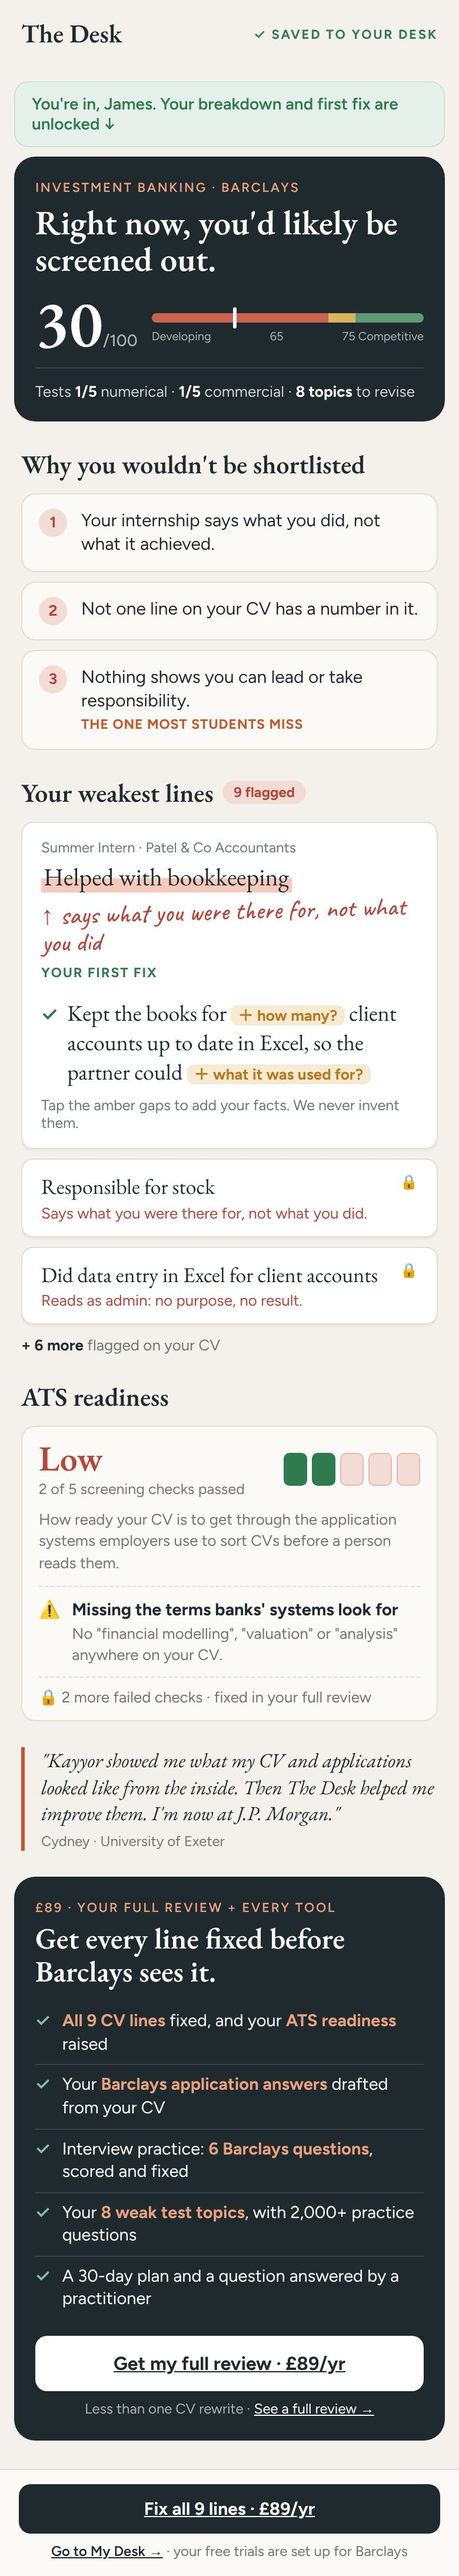
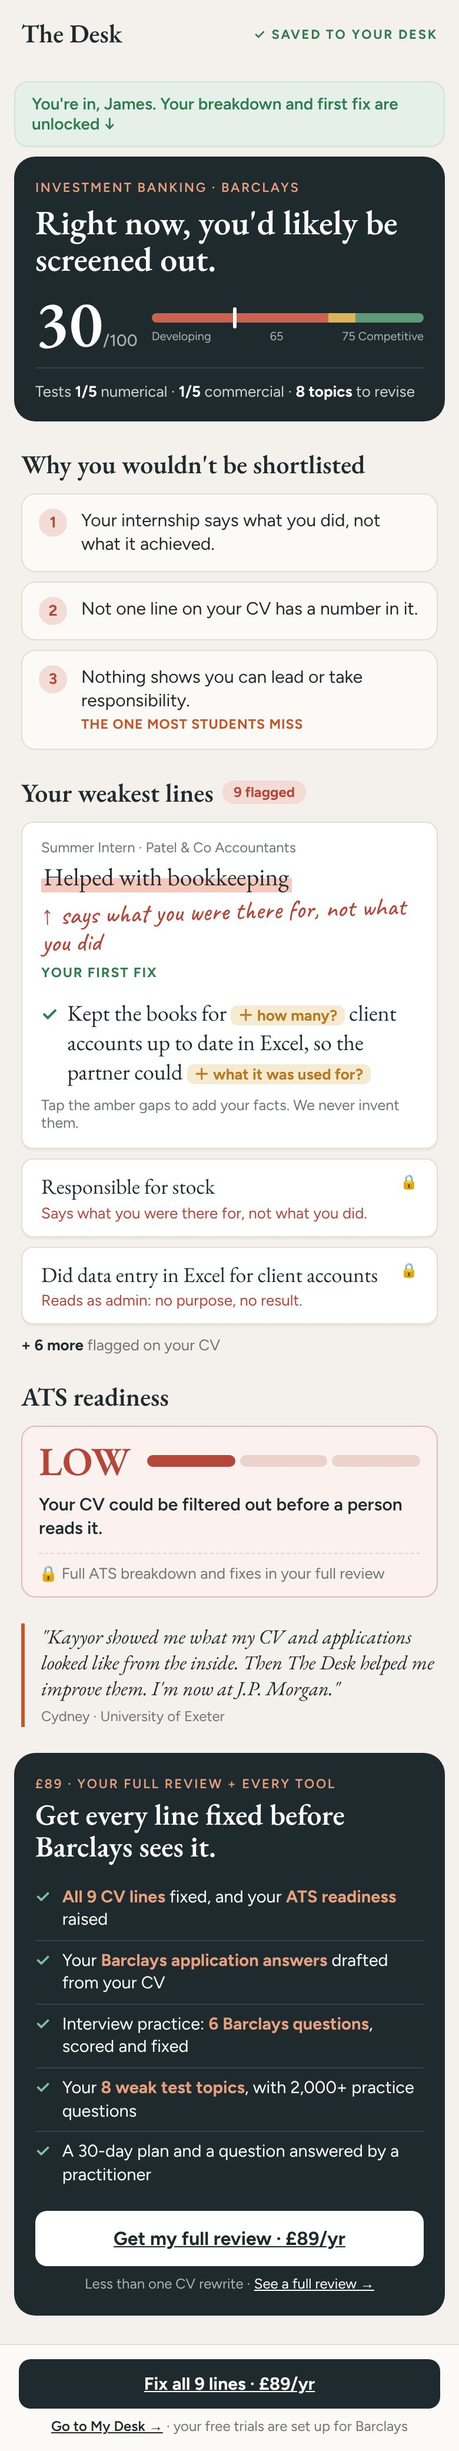
v6: ATS readiness level only
Claude-Session: https://claude.ai/code/session_014HX912Q8GYBLs9Jx181D89

Changed region(s): [[0.0308, 0.0312, 0.9846, 0.999], [0.8, 0.3434, 0.8923, 0.3746]]

diff --git a/design/free-check-v6-mock.html b/design/free-check-v6-mock.html
@@ -122,16 +122,14 @@ body.unlocked .l-only{display:none}
 
 <div class="sec">
   <h2>ATS readiness</h2>
-  <div class="ats">
-    <div style="display:flex;align-items:center;justify-content:space-between;gap:12px">
-      <div><div style="font-family:'EB Garamond',serif;font-weight:600;font-size:30px;line-height:1;color:var(--bad)">Low</div>
-      <div style="font-size:12.5px;color:var(--muted);margin-top:3px">2 of 5 screening checks passed</div></div>
-      <div style="display:flex;gap:4px">
-        <i style="width:20px;height:28px;border-radius:5px;background:var(--good)"></i><i style="width:20px;height:28px;border-radius:5px;background:var(--good)"></i><i style="width:20px;height:28px;border-radius:5px;background:#f3dcd6;border:1px solid #e8b9ae"></i><i style="width:20px;height:28px;border-radius:5px;background:#f3dcd6;border:1px solid #e8b9ae"></i><i style="width:20px;height:28px;border-radius:5px;background:#f3dcd6;border:1px solid #e8b9ae"></i></div>
+  <div class="ats" style="border-color:#e8b9ae;background:#fbf1ee">
+    <div style="display:flex;align-items:center;gap:14px">
+      <div style="font-family:'EB Garamond',serif;font-weight:600;font-size:34px;line-height:1;color:var(--bad)">LOW</div>
+      <div style="display:flex;gap:4px;flex:1">
+        <i style="flex:1;height:10px;border-radius:5px;background:var(--bad)"></i><i style="flex:1;height:10px;border-radius:5px;background:#ecd2cc"></i><i style="flex:1;height:10px;border-radius:5px;background:#ecd2cc"></i></div>
     </div>
-    <div style="font-size:13px;color:var(--muted);margin:10px 0 10px;line-height:1.4">How ready your CV is to get through the application systems employers use to sort CVs before a person reads them.</div>
-    <div class="i" style="border-top:1px dashed var(--line);padding-top:10px"><span>⚠</span><div><b>Missing the terms banks' systems look for</b><div class="eg">No "financial modelling", "valuation" or "analysis" anywhere on your CV.</div></div></div>
-    <div class="lockrow">🔒 2 more failed checks · fixed in your full review</div>
+    <div style="font-size:15px;font-weight:600;margin-top:10px;line-height:1.35">Your CV could be filtered out before a person reads it.</div>
+    <div class="lockrow" style="border-color:#ecd2cc">🔒 Full ATS breakdown and fixes in your full review</div>
   </div>
 </div>
 

diff --git a/CODEX-FREE-CHECK-V6.md b/CODEX-FREE-CHECK-V6.md
@@ -15,13 +15,15 @@
    - the teaser line as a marked-up CV snippet: role · employer, the line highlighted, red handwritten note "↑ {why}", "MISSING" + green chips, blurred fix with ✓
    - the next 2 flagged lines as blurred cards with 🔒
    - "+ {n} more flagged on your CV"
-5. **ATS readiness:**
-   - level (Low / Medium / High) + "{passed} of 5 screening checks passed" + a 5-segment meter
-   - one line explaining what ATS readiness is
-   - the single highest-impact failed check with a concrete example from *their* CV
-   - "🔒 {n} more failed checks · fixed in your full review"
-   - the 5 checks: readability (PDF only; pasted text = "Upload your PDF to check"), standard headings, dates/titles format, route key terms (Rao-approved lists), contact basics present
-   - Low = 0–2 passed, Medium = 3–4, High = 5. Never claim "AI will reject you".
+5. **ATS readiness: level only, no details:**
+   - "LOW" (red) / "MEDIUM" (amber) / "STRONG" (green) + a 3-segment bar + one line:
+     - LOW: "Your CV could be filtered out before a person reads it."
+     - MEDIUM: "Parts of your CV may not read cleanly in application systems."
+     - STRONG: "Your CV should read cleanly in application systems."
+   - then "🔒 Full ATS breakdown and fixes in your full review"
+   - **no checks list and no examples on the free page** (same before and after joining)
+   - strict scoring from 5 real checks: route key terms used in experience lines (Rao-approved lists); 3+ lines with a number; standard headings; consistent dates/titles; PDF reads in order (pasted text = fail)
+   - STRONG = 5 pass; MEDIUM = 4; LOW = 3 or fewer. Never a fixed value. Never claim "AI will reject you".
 6. **Cydney's quote.**
 7. **Pinned bottom bar (phone):** "Join free to unlock your breakdown + first fix" · [email] [Join free →] · "or get your full review · £89/yr".
 
@@ -30,7 +32,7 @@
 - Reasons 2 and 3 revealed (same card style as reason 1).
 - **Teaser line:** "YOUR FIRST FIX", the validated rewrite with tappable amber gaps ("＋ how many?"), and "Tap the amber gaps to add your facts. We never invent them."
 - The other flagged lines unblurred with their *why*; their fixes stay locked 🔒.
-- ATS: still 1 issue shown, the rest locked.
+- ATS: unchanged (level only); the breakdown stays in the £89 full review.
 - **Membership card (dark)** under the quote: "£89 · YOUR FULL REVIEW + EVERY TOOL", heading "Get every line fixed before {firm} sees it.", 5 ticks using their numbers:
   - all {n} CV lines fixed, and your ATS readiness raised
   - your {firm} application answers drafted from your CV
